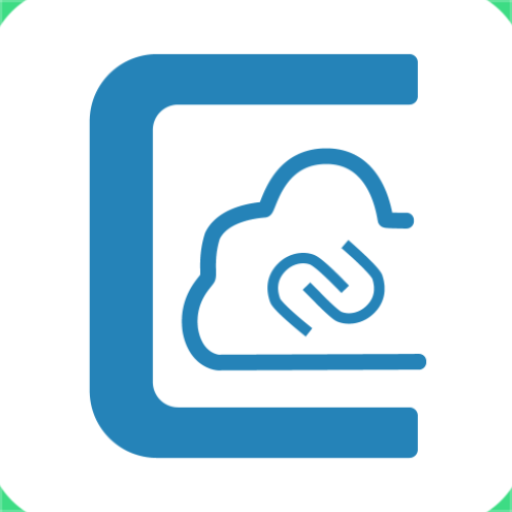
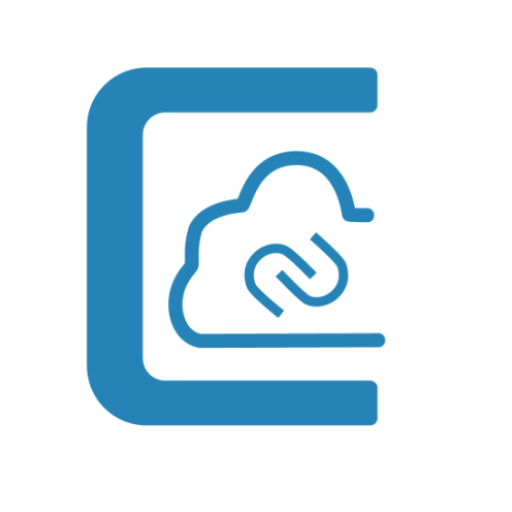
1，修改android图标 2，修改侧滑菜单项

diff --git a/common/lib/ui/components/nav/nav_widget_controller.dart b/common/lib/ui/components/nav/nav_widget_controller.dart
@@ -82,7 +82,9 @@ class NavWidgetController extends _$NavWidgetController {
         icon: FlutterIcons.hand_holding_heart_faw5s,
         route: '/paywall',
       ),
+      if (isShow)
       NavEntry.divider(),
+      if (isShow)
       NavEntry(
         label: tr('pages.faq.title'),
         icon: Icons.help,
@@ -95,6 +97,7 @@ class NavWidgetController extends _$NavWidgetController {
         icon: Icons.history,
         route: '/changelog',
       ),
+      if (isShow)
       NavEntry(
         label: tr('pages.tool.title'),
         icon: FlutterIcons.toolbox_faw5s,
